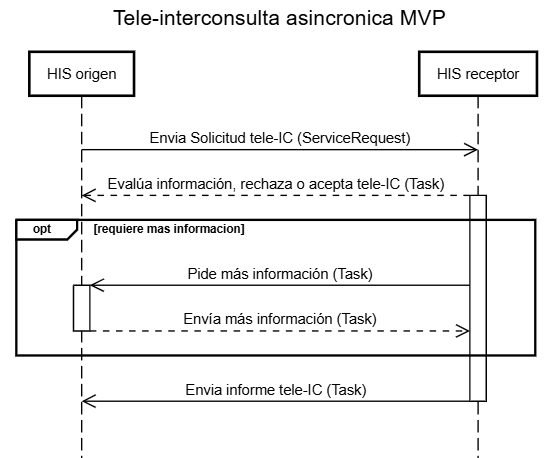
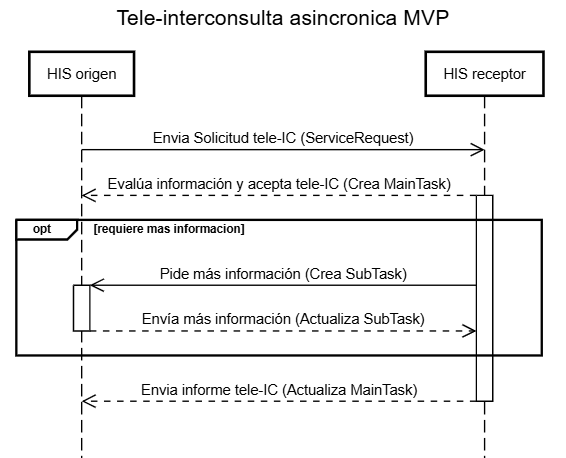
Profiling

diff --git a/input/pagecontent/index.md b/input/pagecontent/index.md
@@ -11,8 +11,8 @@ Esta Guía sigue un formato especificado para **FHIR R4**, y se divide en varias
 
 * [Home](index.html): Provee la introducción acerca de esta guía.
 * [Generalidades](Aspectos-Generales.html): Se especifican algunos conceptos importantes para poder comprender la lectura de los artefactos con el fin de hacer uso de la guía con objetivos de implementación.
-* Operaciones: Define las operaciones más usadas para el intercambio, manejo, consulta, actualización, etc. de Recursos Generados en un servidor.
-* Artefactos: Estas páginas proveen descripciones detalladas y definiciones formales para los artefactos FHIR definidos en la guía.
+* [Operaciones](operaciones.html): Define las operaciones más usadas para el intercambio, manejo, consulta, actualización, etc. de Recursos Generados en un servidor.
+* [Artefactos](artifacts.html): Estas páginas proveen descripciones detalladas y definiciones formales para los artefactos FHIR definidos en la guía.
 <br>
 
 ### Perfiles de la Guía

diff --git a/input/pagecontent/operaciones.md b/input/pagecontent/operaciones.md
@@ -1,0 +1,12 @@
+### Operaciones 
+
+#### Operaciones de Teleinterconsulta Transfronteriza
+
+El siguiente diagrama de secuencia describe las operaciones generales para el caso de TeleInterconsulta Transfronteriza asi como tambien los principales recursos involucrados.
+<br>
+<div align="center" >
+  <img  style="border: 1px solid; color: black;" src="TICTF.png"> 
+  <p>Diagrama de Secuencia TICTF</p>
+</div>
+<br>
+
